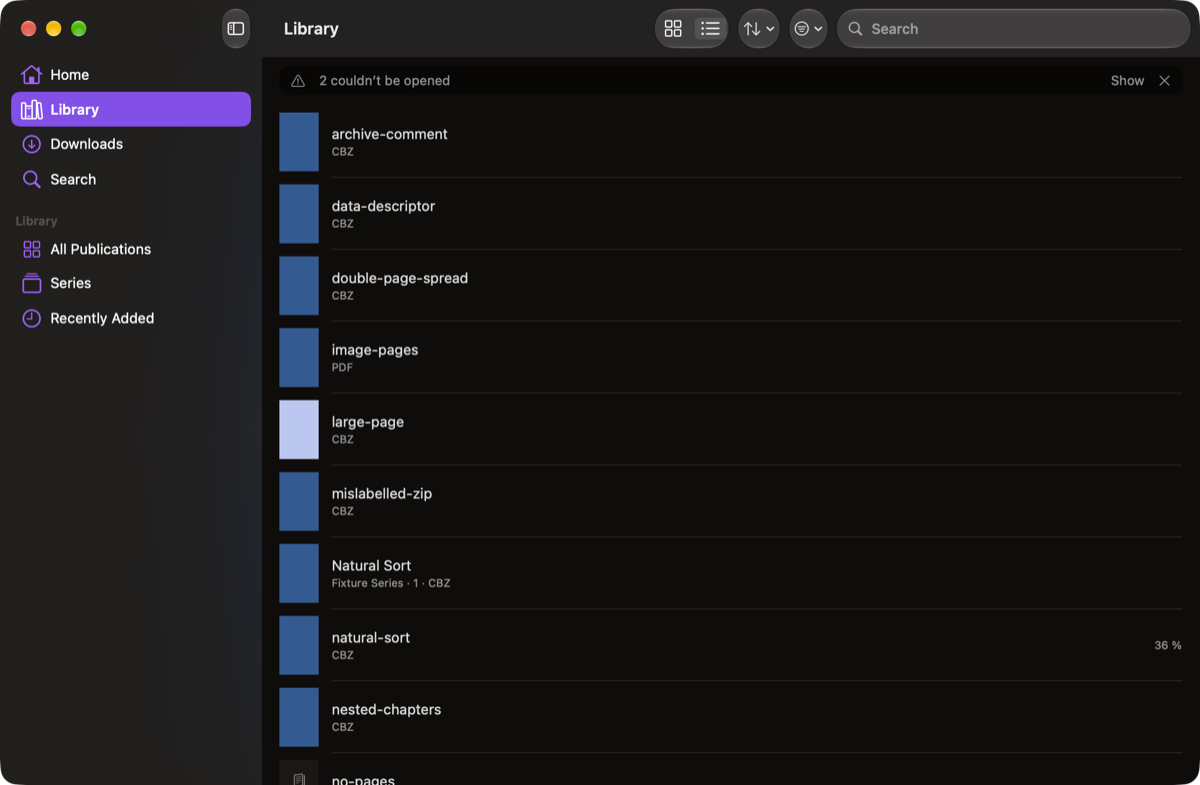
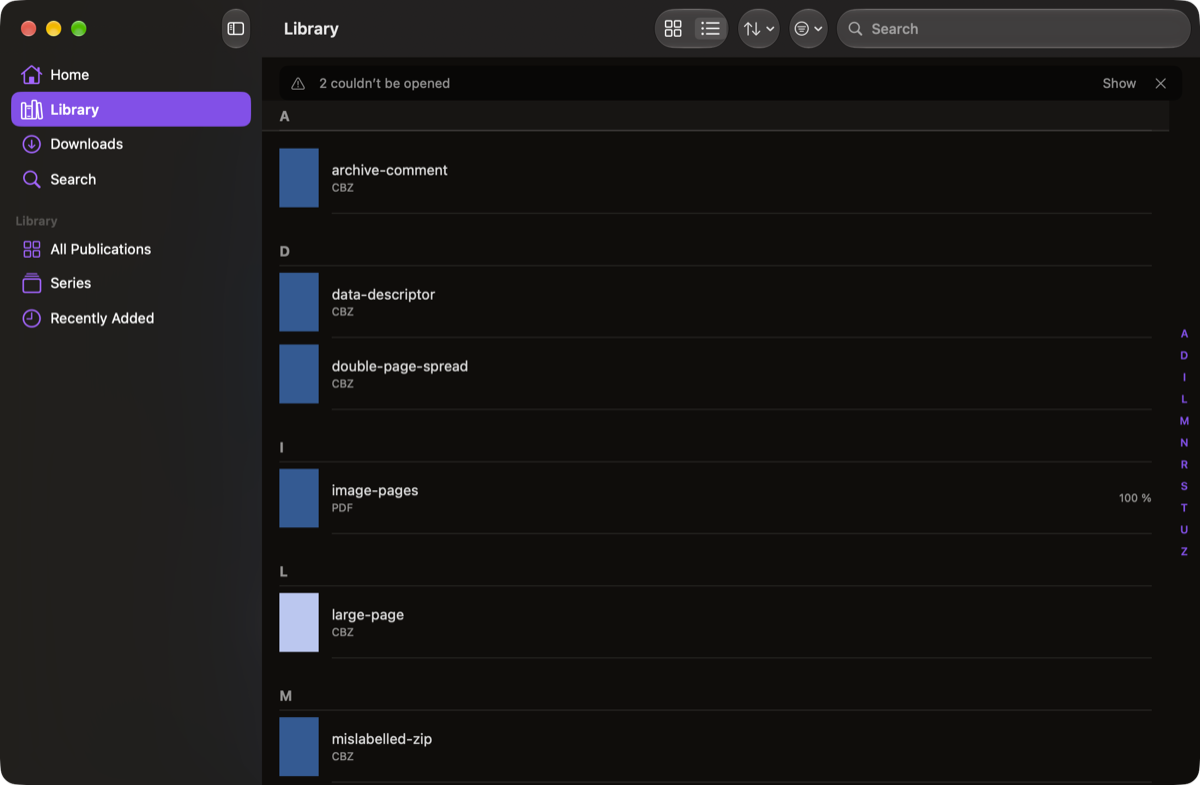
docs(desktop): wave 2 Mac frames retaken over the screen catalogue
The capture suite walks the catalogue the audit and the snapshots walk, in 56 frames.
New frames show the page browser, the end, the scroll, Sources, Privacy and About.
The reader's chrome shows the larger controls and slider the audit asked for.

diff --git a/apps/desktop-macos/Tests/Wave2CaptureTests.swift b/apps/desktop-macos/Tests/Wave2CaptureTests.swift
@@ -1,48 +1,36 @@
 import AppKit
-import Persistence
-import StoryArcCore
 import Testing
 
 @testable import StoryArc
 
 extension WindowWalks {
-    /// The wave 2 frames: every screen of the library, the reader and the preferences, in
-    /// light and dark, at the default text size and the reader's largest, over the fixture
-    /// library. Off unless asked for, as `CaptureTests` is; written to the container's
-    /// `tmp/captures/wave2/`. `docs/designs/screenshots/desktop/macos/wave2/README.md` names
-    /// each frame and its limits.
+    /// The wave 2 frames: every screen of the Mac's catalogue (`MacCatalogue`), in light and
+    /// dark, at the default text size and the reader's largest, over the fixture library. Off
+    /// unless asked for, as `CaptureTests` is; written to the container's `tmp/captures/wave2/`.
+    /// `docs/designs/screenshots/desktop/macos/wave2/README.md` names each frame and its limits.
+    ///
+    /// The snapshot tests walk the same screens and draw them in-process; these ask the window
+    /// server, so they hold the glass and the sidebar's material the snapshots cannot.
     @MainActor
     @Suite("Wave 2 captures", .enabled(if: CaptureRequest.isSet, "set TEST_RUNNER_STORYARC_CAPTURE=1 to capture"))
     struct Wave2CaptureTests {
-        static let librarySize = NSRect(x: 80, y: 80, width: 1100, height: 720)
-        static let readerSize = NSRect(x: 120, y: 60, width: 980, height: 820)
-
         @Test("Library, detail, reader and preferences, light and dark, default and largest text")
         func captureWave2() async throws {
-            let library = try await Walk.fixtureLibrary()
-            let window = try #require(ShellWalk.waitForLibraryWindow())
+            let (library, reading) = try await MacCatalogue.prepare()
             let folder = try Walk.captureFolder("wave2")
-            let reading = try #require(Walk.publication(named: "natural-sort", in: library))
-            try await Self.seedHistory(reading, in: library)
-            _ = try? await NSWorkspace.shared.openApplication(at: Bundle.main.bundleURL, configuration: .init())
-            _ = await Walk.until(.seconds(3)) { NSApplication.shared.isActive ? true : nil }
             defer {
                 NSApplication.shared.appearance = nil
                 MacSettings.shared.textSize = .default
-                library.model.layout = .grid
             }
             var methods: [String] = []
-
             for (appearance, scheme) in [(NSAppearance.Name.aqua, "light"), (.darkAqua, "dark")] {
                 for size in [ChromeTextSize.default, .largest] {
                     NSApplication.shared.appearance = NSAppearance(named: appearance)
                     MacSettings.shared.textSize = size
                     let suffix = size == .default ? scheme : "\(scheme)-largest"
-                    methods += try await Self.library(
-                        window, library: library, reading: reading, folder: folder, suffix: suffix
-                    )
-                    methods += try await Self.reader(library: library, reading: reading, folder: folder, suffix: suffix)
-                    methods += try await Self.settings(folder: folder, suffix: suffix)
+                    try await MacCatalogue.walk(library: library, reading: reading) { screen, window in
+                        methods.append(try Self.capture(window, to: folder.appending(path: "\(screen)-\(suffix).png")))
+                    }
                 }
             }
             try methods.joined(separator: "\n").write(
@@ -50,106 +38,8 @@ extension WindowWalks {
             )
         }
 
-        /// A position partway through one publication, so Home has a Keep reading shelf.
-        private static func seedHistory(_ publication: Publication, in library: MacLibrary) async throws {
-            let store = try #require(library.progress)
-            try await store.save(ReadingProgress(
-                identity: publication.identity, position: .page(index: 4, of: 12), updatedAt: Date()
-            ))
-            await library.refreshProgress()
-        }
-
-        private static func library(
-            _ window: NSWindow, library: MacLibrary, reading: Publication, folder: URL, suffix: String
-        ) async throws -> [String] {
-            var methods: [String] = []
-            let steps: [(String, () -> Void)] = [
-                ("home", { library.navigationRequest = .go(.home) }),
-                ("library-grid", { library.model.layout = .grid; library.navigationRequest = .go(.library) }),
-                ("library-list", { library.model.layout = .list }),
-                ("search", { library.model.layout = .grid; library.navigationRequest = .search("sort") }),
-                ("detail", {
-                    library.navigationRequest = .go(.library)
-                }),
-            ]
-            for (name, step) in steps {
-                step()
-                if name == "detail" {
-                    try await Task.sleep(for: .milliseconds(500))
-                    library.navigationRequest = .details(publicationID: reading.id)
-                }
-                try await Task.sleep(for: .milliseconds(900))
-                let file = folder.appending(path: "\(name)-\(suffix).png")
-                methods.append(try capture(window, at: librarySize, to: file))
-            }
-            library.navigationRequest = .search("")
-            try await Task.sleep(for: .milliseconds(300))
-            // Library keeps its pushed page now (each row remembers); the next pass starts at its root.
-            library.navigationRequest = .root
-            try await Task.sleep(for: .milliseconds(300))
-            library.navigationRequest = .go(.home)
-            return methods
-        }
-
-        private static func reader(
-            library: MacLibrary, reading: Publication, folder: URL, suffix: String
-        ) async throws -> [String] {
-            let target = try #require(library.target(for: reading))
-            try Walk.open(target)
-            let window = try #require(await Walk.until { Walk.readerWindows(for: target).first })
-            // Opened, decoded, and the chrome still up: it hides three seconds after opening.
-            try await Task.sleep(for: .milliseconds(1200))
-            func shot(_ name: String) throws -> String {
-                try capture(window, at: readerSize, to: folder.appending(path: "\(name)-\(suffix).png"))
-            }
-            var methods = [try shot("reader")]
-            let state = try #require(ReaderStates.shared.state(for: target))
-            // The page browser, which holds the chrome up while it is open.
-            state.isBrowsingPages = true
-            try await Task.sleep(for: .milliseconds(900))
-            methods.append(try shot("reader-pages"))
-            state.isBrowsingPages = false
-            // The end of the publication.
-            state.isAtEnd = true
-            try await Task.sleep(for: .milliseconds(500))
-            methods.append(try shot("reader-end"))
-            state.isAtEnd = false
-            // The continuous scroll, put back to the slide for the next pass.
-            state.choose(.verticalScroll)
-            try await Task.sleep(for: .milliseconds(900))
-            methods.append(try shot("reader-scroll"))
-            state.choose(.slide)
-            await Walk.close([window])
-            return methods
-        }
-
-        private static func settings(folder: URL, suffix: String) async throws -> [String] {
-            let before = ShellWalk.visibleWindows()
-            ShellWalk.openSettings()
-            let window = try #require(await Walk.until { ShellWalk.visibleWindows().first { !before.contains($0) } })
-            var methods: [String] = []
-            for tab in [SettingsTab.appearance, .reading, .privacy, .about] {
-                MacSettings.shared.settingsTab = tab
-                try await Task.sleep(for: .milliseconds(600))
-                let file = folder.appending(path: "settings-\(tab.rawValue)-\(suffix).png")
-                methods.append(try capture(window, at: nil, to: file))
-            }
-            MacSettings.shared.settingsTab = .sources
-            window.close()
-            return methods
-        }
-
-        /// Writes the window as a PNG at a fixed size, and says how it was imaged.
-        ///
-        /// The size is held with the window made non-resizable for the length of the frame,
-        /// because a tiling window manager otherwise fills the screen with it.
-        private static func capture(_ window: NSWindow, at frame: NSRect?, to file: URL) throws -> String {
-            let wasResizable = window.styleMask.contains(.resizable)
-            if let frame {
-                window.styleMask.remove(.resizable)
-                window.setFrame(frame, display: true)
-            }
-            defer { if wasResizable { window.styleMask.insert(.resizable) } }
+        /// Writes the window as a PNG and says how it was imaged.
+        private static func capture(_ window: NSWindow, to file: URL) throws -> String {
             window.makeKeyAndOrderFront(nil)
             ShellWalk.settle()
             window.displayIfNeeded()

diff --git a/docs/designs/screenshots/desktop/macos/wave2/README.md b/docs/designs/screenshots/desktop/macos/wave2/README.md
@@ -1,9 +1,11 @@
 # macOS wave 2 — library, reader and preferences
 
-Taken 2026-10-17 from the ad-hoc build of `apps/desktop-macos` (macOS 27.0.1, Xcode 27.1)
-over `packages/test-fixtures/comics`, copied into the app's container as its one library
-folder, with one reading position written for `natural-sort.cbz` (page 5 of 12) so Home has
-a Keep reading shelf. Tasks 2.9 to 2.23e of `desktop-clients`; the conformance walk that
+Taken again 2026-10-17 at the head of `lane/macos-wave2-fixes` from the ad-hoc build of
+`apps/desktop-macos` (macOS 27.0.1, Xcode 27.1) over `packages/test-fixtures/comics`, copied
+into the app's container as its one library folder. The screens are those of
+`Tests/MacCatalogue.swift`, which empties the progress store and then writes one reading
+position for `natural-sort.cbz` (page 5 of 12) and marks `image-pages.cbz` finished on
+15 January 2026, so Home has every shelf it can have over the fixtures. Tasks 2.9 to 2.23e of `desktop-clients`; the conformance walk that
 reads these frames is [`desktop-conformance-macos-wave2.md`](../../../../../delivery/desktop-conformance-macos-wave2.md).
 
 Every screen in four frames: light and dark, each at the default text size and at the
@@ -12,14 +14,20 @@ in for the system's largest text size that macOS does not have.
 
 | Frame | What it shows |
 | --- | --- |
-| `home-<variant>.png` | The library window on Home: Keep reading with the one book in progress, its progress rail and percentage. No Up next shelf: no fixture series has a finished issue, so the shelf is absent, as `home-screen` asks of an empty shelf. |
-| `library-grid-<variant>.png` | Library, as a grid, in title order, under the notice that two publications could not be opened (`refused.cb7` and `password-protected.cbz`), with *Show* and its close mark. |
+| `home-<variant>.png` | The library window on Home under the notice that two publications could not be opened (*Show* and its close mark): Keep reading with the one book in progress, its rail and percentage; Recently Added with *Show All* in its heading; Finished, grouped under January 2026. No Up next shelf: no fixture series has a finished issue with a next one. |
+| `library-grid-<variant>.png` | Library, as a grid, in title order, with the letter index rail down its trailing edge. |
 | `library-list-<variant>.png` | Library, as a list: cover, title, series line and format, percent read at the end. |
 | `search-<variant>.png` | The toolbar search with "sort" typed: the field stays in the toolbar and the results take the content column. |
-| `detail-<variant>.png` | The publication page of `natural-sort`: the cover wash, the one primary action (*Continue at Page 5 of 12*), the borderless More menu, and the line naming the folder. |
-| `reader-<variant>.png` | The reader window on page 5, with the chrome up: the page layout and zoom menus at the top, the counter and the page slider at the foot, both on glass. |
+| `detail-<variant>.png` | The publication page of `natural-sort`: the cover wash, the one primary action (*Continue at Page 5 of 12*), the borderless More menu, and the line naming the folder. It has no series, so no other-issues shelf. |
+| `reader-<variant>.png` | The reader window on page 5 with the chrome up: the contents, adjust, page mode, layout and zoom controls at the head, each at least 28 points, the counter and the large page slider at the foot, on glass. |
+| `reader-pages-<variant>.png` | The page browser open above the foot: page 5 in the centre, outlined, with its neighbours. |
+| `reader-end-<variant>.png` | The end of the publication: marked finished, *Back to the Page* and *Close*. No next issue: `natural-sort` has no series. |
+| `reader-scroll-<variant>.png` | The vertical continuous scroll after the chrome has hidden: the page alone, to the window's width. |
+| `settings-sources-<variant>.png` | Preferences, Sources: the one fixture folder and the way to add another. |
 | `settings-appearance-<variant>.png` | Preferences, Appearance: appearance, accent (StoryArc or System) and text size. |
-| `settings-reading-<variant>.png` | Preferences, Reading: the edge click zones (on), the cover alone (on), and the page turn, which says the curl is a later version. |
+| `settings-reading-<variant>.png` | Preferences, Reading: the edge click zones, the cover alone, and the default page mode, which says the curl is a later version. |
+| `settings-privacy-<variant>.png` | Preferences, Privacy, with *Reset Settings*. |
+| `settings-about-<variant>.png` | Preferences, About: version, byline, the free-and-open sentence, the four links and the acknowledgements. |
 
 `<variant>` is `light`, `dark`, `light-largest` or `dark-largest`.
 
@@ -61,3 +69,7 @@ wave 1's.
   picker draws its value with the control's own font. The labels, the footers and every
   window's content scale.
 - **Increase Contrast and Reduce Transparency are not here**, as in wave 1.
+- **These frames are not the snapshot references.** The same screens are held by
+  `apps/desktop-macos/Tests/__Snapshots__/`, drawn in-process at one pixel per point without
+  the materials; a change to a screen fails that suite until its references are recorded
+  again, and these frames are retaken by hand.
